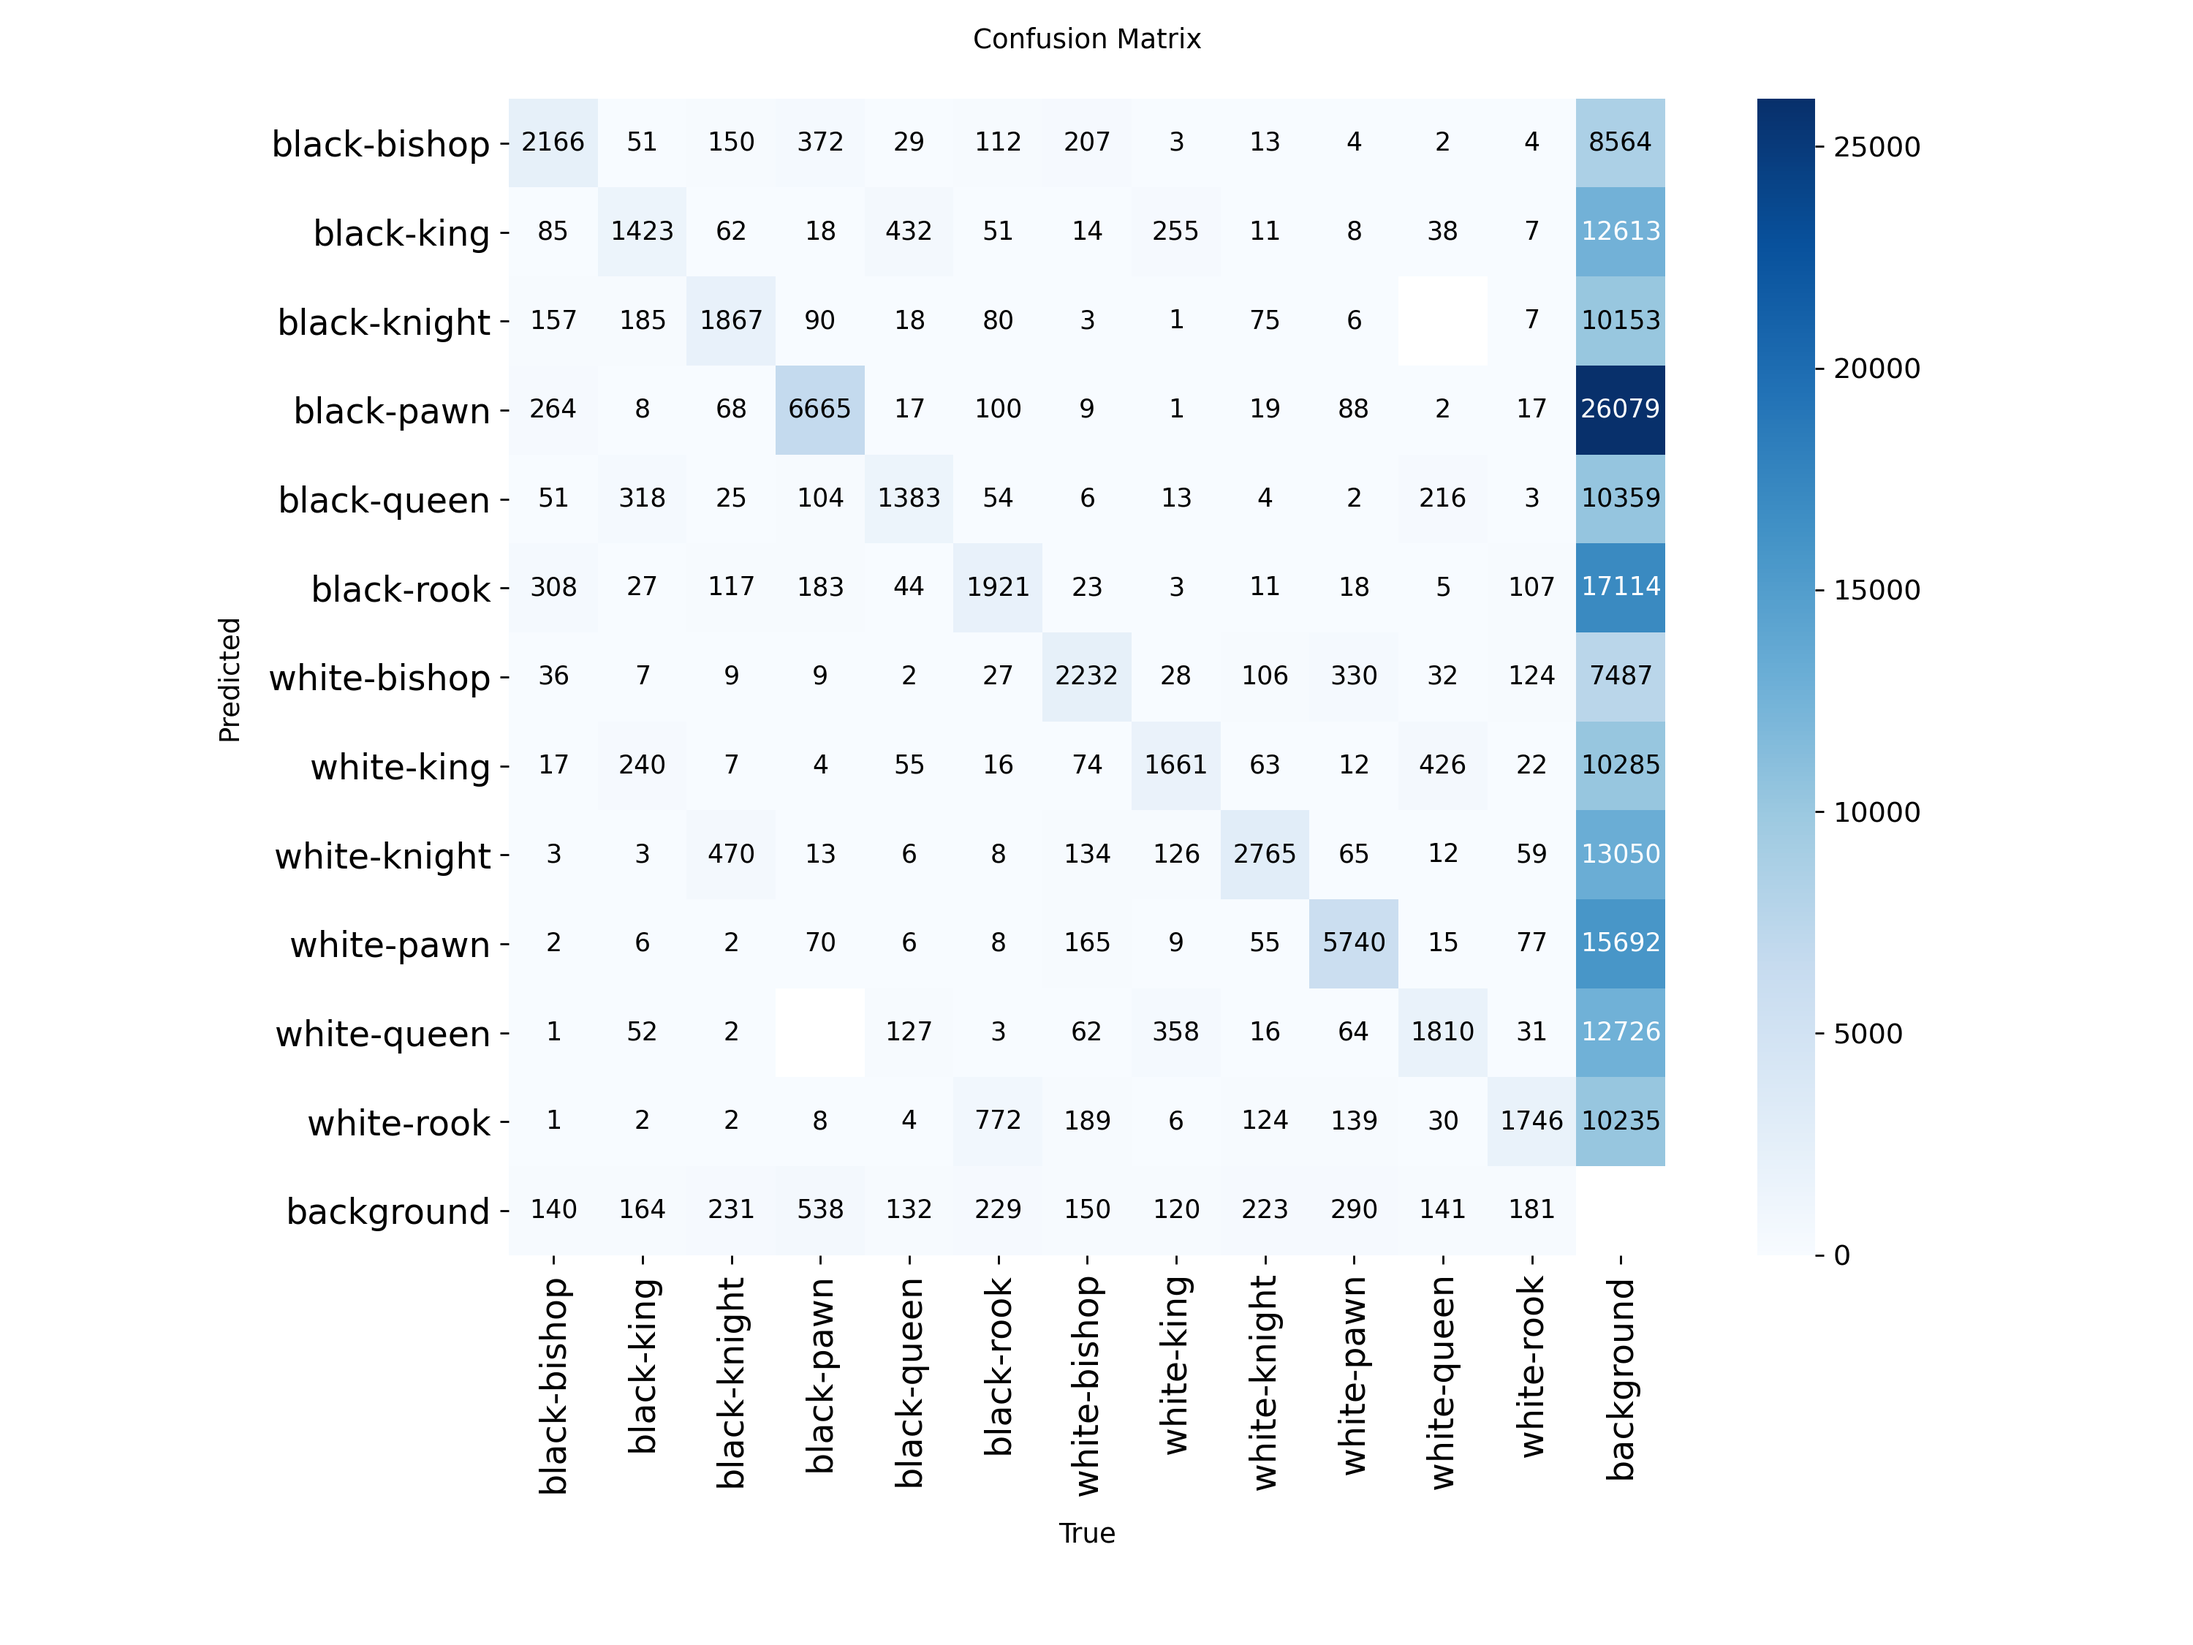
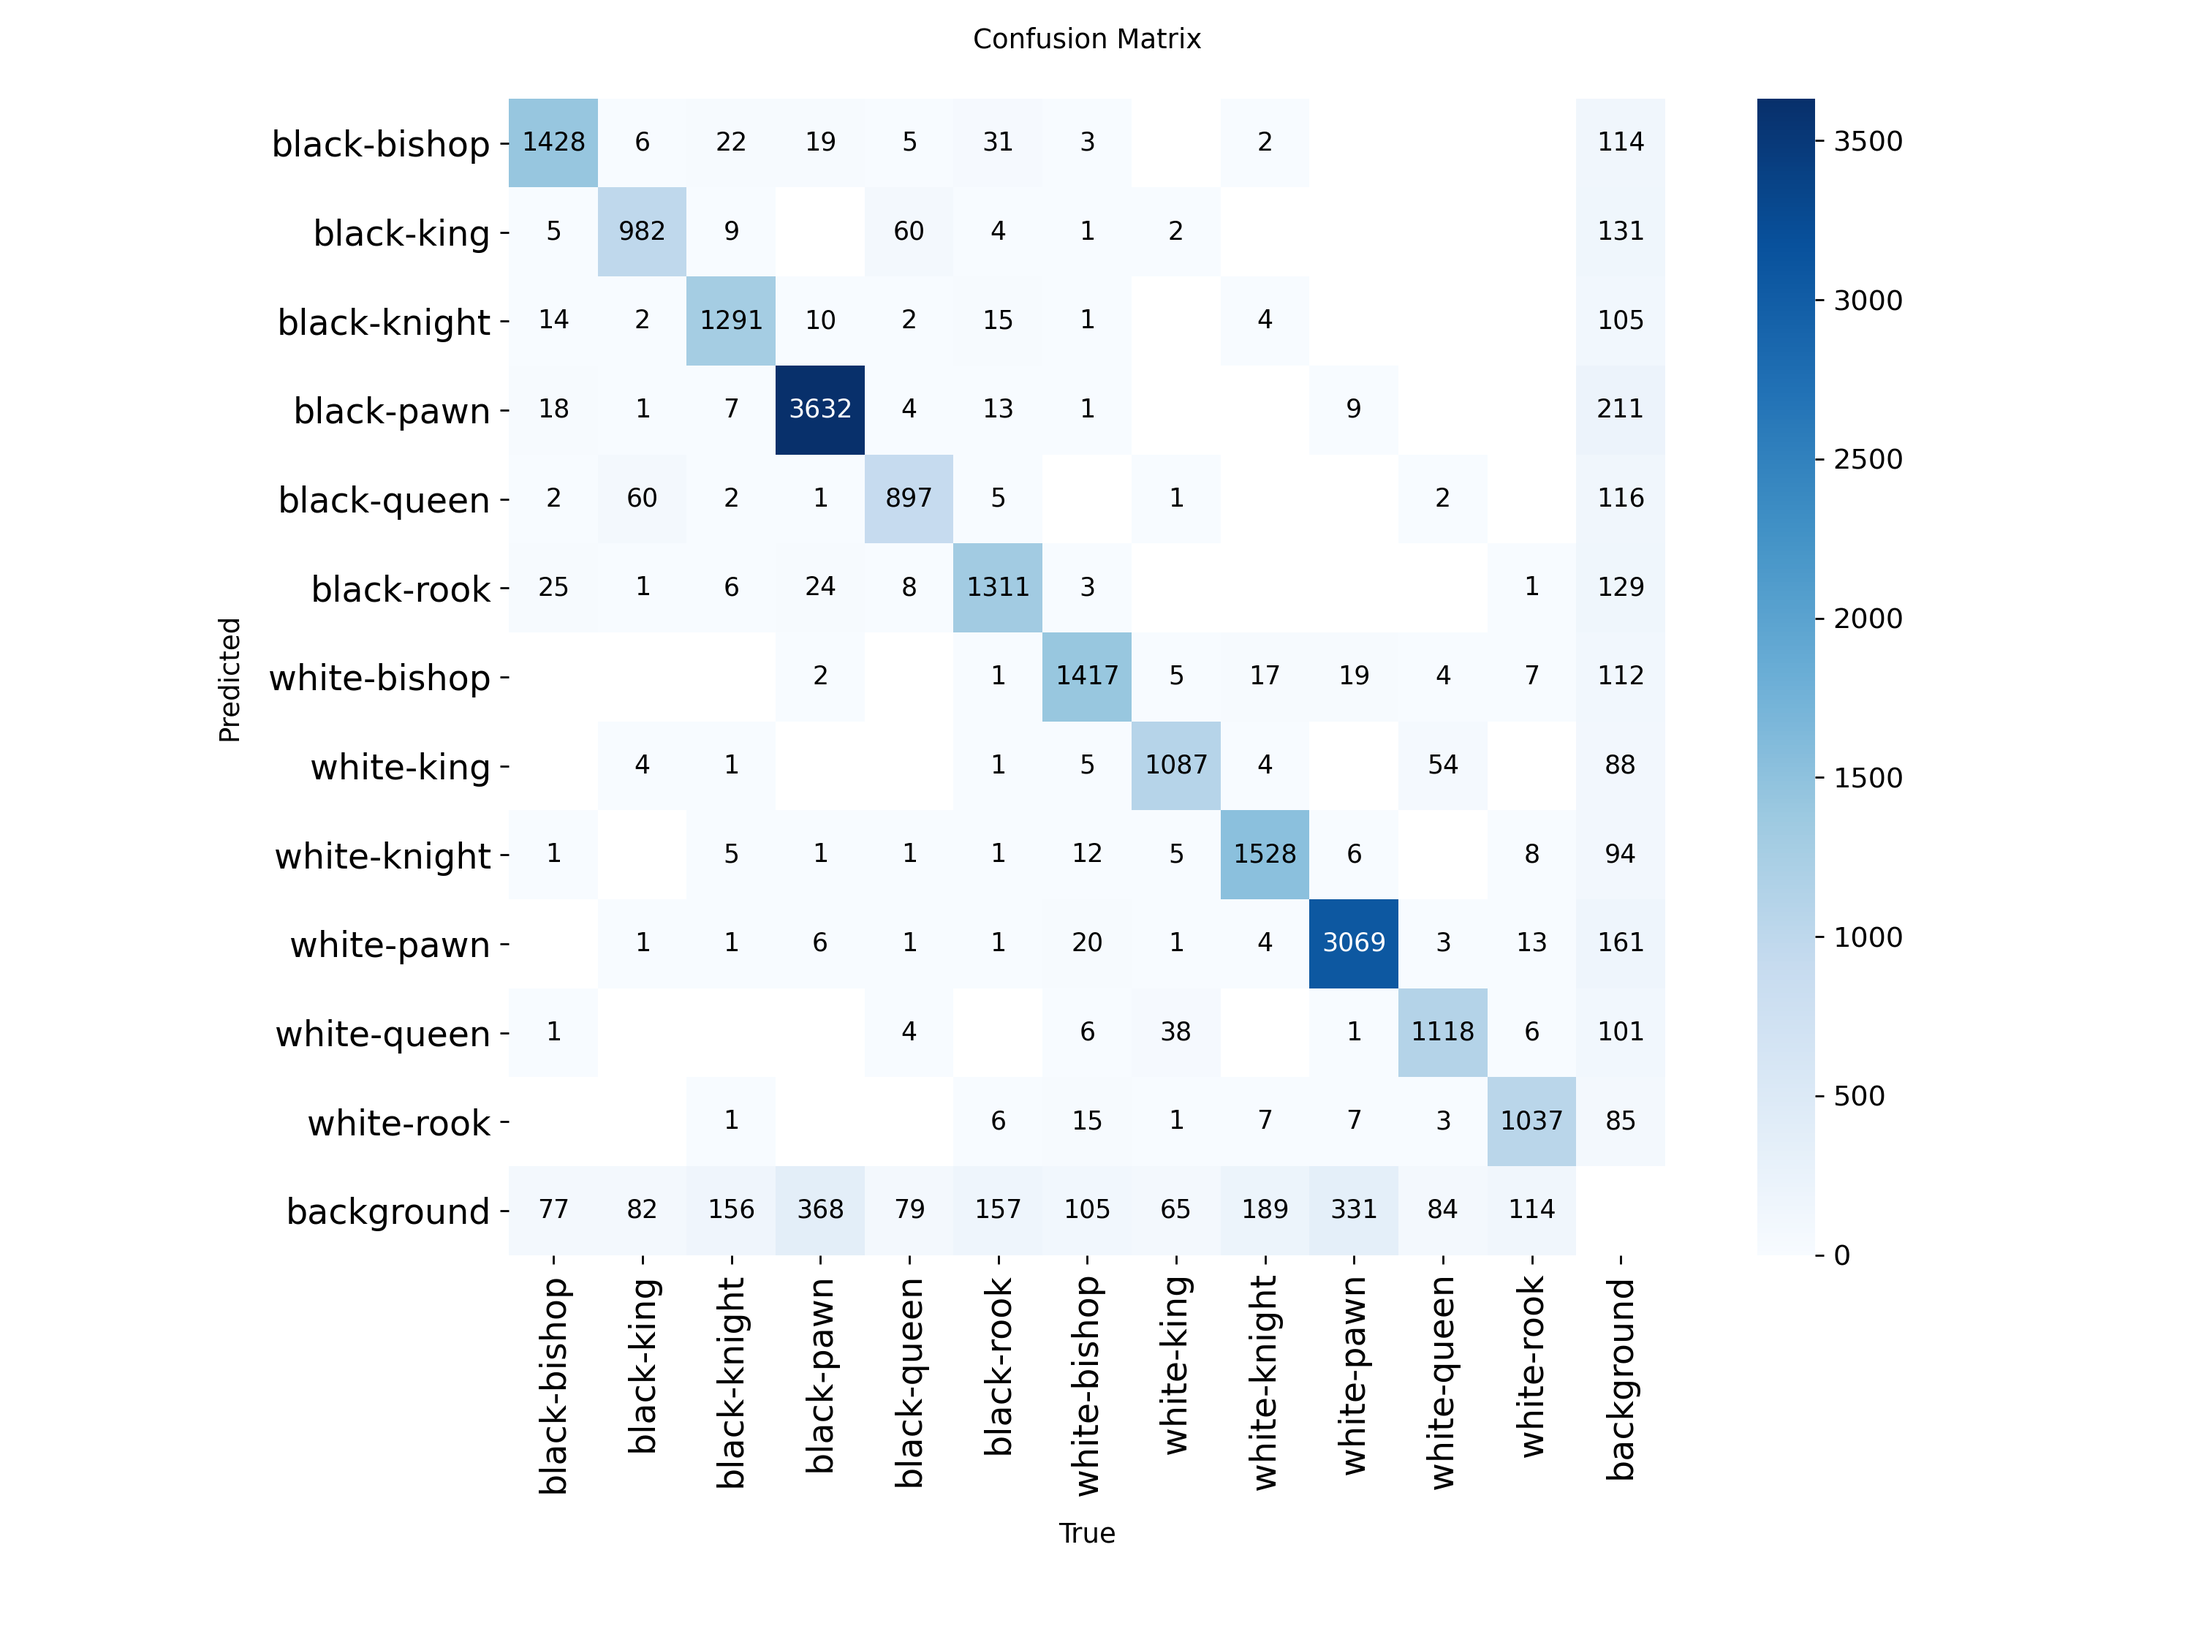
README update for computer vision projects

diff --git a/Computer Vision/Object_Detection/README.md b/Computer Vision/Object_Detection/README.md
@@ -1,6 +1,85 @@
-Dataset: https://universe.roboflow.com/caesar-ylvsf/sp2-ym1iq-5qvbo
+# Chess Piece Object Detection
 
-onnx    - Desktop, Server, Windows, Linux, Web, C++
-tflite  - Android, Raspberry Pi, Embedded, Device, IoT
-ncnn    - Android
-coreml  - iPhone, iPad, MacBook, Vision Pro, Apple Watch
+Detects and classifies chess pieces on a board — 12 classes (black/white ×
+king, queen, bishop, knight, rook, pawn).
+
+## Context
+Built as part of ITC's AI & Machine Learning division work.
+
+## Dataset
+[Chess piece dataset — Roboflow Universe](https://universe.roboflow.com/caesar-ylvsf/sp2-ym1iq-5qvbo)
+- 6,863 training images
+- 1,964 validation images
+- 982 test images
+
+## Approach
+- **Model**: YOLO26n (detection), input size 640×640 — raised from the
+  320px used in the waste classification project, since chess pieces
+  (especially pawns) are small objects that need more resolution to detect
+- **Training**: up to 50 epochs (early stopping patience=8), batch size 32,
+  AdamW optimizer, cosine LR schedule (lr0=0.001), weight decay 0.0006
+- This configuration was selected after comparing dataset versions; two
+  earlier dataset attempts were discarded due to poor camera angle/lighting
+  or incomplete piece labeling
+
+## Results
+Test set (982 images, 21,326 instances):
+
+| Metric    | Score  |
+|-----------|-------:|
+| Precision | 94.2%  |
+| Recall    | 87.8%  |
+| mAP50     | 91.3%  |
+| mAP50-95  | 66.0%  |
+
+Per-class breakdown:
+
+| Class         | Precision | Recall | mAP50 | mAP50-95 |
+|---------------|----------:|-------:|------:|---------:|
+| Black bishop  | 94.1%     | 91.2%  | 93.3% | 63.8%    |
+| Black king    | 91.3%     | 87.6%  | 91.4% | 70.0%    |
+| Black knight  | 93.8%     | 85.2%  | 89.0% | 63.3%    |
+| Black pawn    | 96.0%     | 88.3%  | 92.5% | 63.0%    |
+| Black queen   | 92.2%     | 84.1%  | 90.2% | 69.5%    |
+| Black rook    | 93.0%     | 84.8%  | 88.2% | 65.0%    |
+| White bishop  | 95.5%     | 90.2%  | 93.0% | 64.9%    |
+| White king    | 93.3%     | 90.7%  | 94.2% | 72.2%    |
+| White knight  | 96.3%     | 87.0%  | 90.4% | 64.6%    |
+| White pawn    | 96.2%     | 88.2%  | 91.9% | 61.6%    |
+| White queen   | 94.4%     | 88.4%  | 92.9% | 70.6%    |
+| White rook    | 94.4%     | 87.3%  | 88.7% | 64.0%    |
+
+Black-side pieces (particularly queen, knight, rook) show slightly lower
+recall than their white counterparts — possibly a lighting/contrast effect,
+since darker piece material reflects light differently.
+
+Full confusion matrices: [`confusion_matrix.png`](./result/confusion_matrix.png),
+[`confusion_matrix_normalized.png`](./result/confusion_matrix_normalized.png)
+
+Confusion matrices are from this same test evaluation (982 images, 21,326 instances) - background
+row/column counts are in the same order of magnitude as the class counts here
+(unlike a training-time validation confusion matrix, where background counts
+can look inflated due to how YOLO scores anchor-level background at a
+different granularity).
+
+## Limitations
+- Piece classes with similar silhouettes (king/queen, bishop/rook) are more
+  often confused, particularly among the black pieces
+- Trained only on classic-style piece sets which likely to perform worse on
+  fantasy/unusual/non-standard piece designs
+- Lighting and material sensitivity: pieces are partly distinguished by how
+  light reflects off their surface, so different lighting conditions can
+  affect detection even for the same piece type
+- Testing wasn't extensive due to time constraints; the final dataset was
+  chosen based on a qualitative comparison against a clearly worse earlier
+  version (bad angles/lighting, incomplete labeling), not a systematic
+  per-image label audit
+- Two earlier dataset and run attempts weren't kept or logged, only the final
+  configuration is documented here
+
+## Exported formats
+Model exported for deployment across platforms:
+- `onnx` — desktop, server, web, C++
+- `tflite` — Android, Raspberry Pi, embedded/IoT
+- `ncnn` — Android
+- `coreml` — iOS, macOS, Vision Pro, Apple Watch

diff --git a/Computer Vision/Segmentation/README.md b/Computer Vision/Segmentation/README.md
@@ -1,6 +1,67 @@
-Dataset: https://universe.roboflow.com/caesar-ylvsf/hair-2pjwo-ng8p4
+# Hair Segmentation
 
-onnx    - Desktop, Server, Windows, Linux, Web, C++
-tflite  - Android, Raspberry Pi, Embedded, Device, IoT
-ncnn    - Android
-coreml  - iPhone, iPad, MacBook, Vision Pro, Apple Watch
+Pixel-level segmentation of hair regions in images (binary: hair vs. background).
+
+## Context
+Built as part of ITC's AI & Machine Learning division work. This project was
+a given competitive assignment — the dataset was provided, and division
+members compared results on the same data rather than each sourcing their own.
+
+## Dataset
+[Hair segmentation dataset — Roboflow Universe](https://universe.roboflow.com/caesar-ylvsf/hair-2pjwo-ng8p4)
+- ~1,894 training images
+- ~796 validation images (after excluding a small number of corrupt/malformed label files that Ultralytics flagged automatically)
+- 479 images
+
+## Approach
+- **Model**: YOLO26n-seg (Ultralytics), input size 640×640
+- **Training**: 50 epochs, batch size 32, AdamW optimizer, cosine LR schedule
+  (lr0=0.001), weight decay 0.0006
+- **Segmentation-specific settings**: `mask_ratio=2` (raised from the default
+  4, for finer mask precision on a detailed object like hair) and
+  `retina_masks=True` (smoother mask output)
+- Hit the best result on the first full run; later attempts adjusting
+  hyperparameters didn't improve overall performance — they traded precision
+  for recall (or vice versa) rather than raising both
+
+## Results
+Test set (479 images, 550 instances):
+
+| Metric    | Box   | Mask  |
+|-----------|------:|------:|
+| Precision | 96.9% | 96.9% |
+| Recall    | 90.7% | 90.9% |
+| mAP50     | 96.2% | 95.5% |
+| mAP50-95  | 84.7% | 75.6% |
+
+Full confusion matrices: [`confusion_matrix.png`](./result/confusion_matrix.png),
+[`confusion_matrix_normalized.png`](./result/confusion_matrix_normalized.png)
+
+For reference, training-time validation (796 images, 900 instances) scored
+close to these numbers (Box P 95.2%/R 92.9%, Mask P 93.6%/R 93.7%), and the
+confusion matrix from that validation run showed ~95% recall on the hair
+class with 92 background regions misclassified as hair which is consistent with
+the background-bleed limitation below.
+
+## Limitations
+- **Lighting sensitivity**: insufficient or low lighting causes detection to
+  become unstable, the model can flicker on and off across frames/nearby
+  images under the same conditions
+- **Background bleed**: when the background is a similar shade to the
+  subject's hair and appears visually connected in-frame, the model tends to
+  extend the hair mask into the background rather than separating them
+- Only one full training configuration was properly explored; hyperparameter
+  adjustments after the first run traded metrics against each other (e.g.
+  precision up, recall down) rather than improving both, suggesting this
+  configuration may be close to the ceiling for this model/dataset without a
+  different approach (e.g. more data, augmentation targeting lighting variance)
+- A small number of training/validation labels were corrupted (mixed
+  segmentation and detection format) and were automatically excluded rather
+  than manually reviewed and fixed
+
+## Exported formats
+Model exported for deployment across platforms:
+- `onnx` — desktop, server, web, C++
+- `tflite` — Android, Raspberry Pi, embedded/IoT
+- `ncnn` — Android
+- `coreml` — iOS, macOS, Vision Pro, Apple Watch

diff --git a/Computer Vision/Classification/README.md b/Computer Vision/Classification/README.md
@@ -1,6 +1,56 @@
-Dataset: https://universe.roboflow.com/caesar-ylvsf/waste-classifier-backup-pjrq3
+# Waste Material Classification
 
-onnx    - Desktop, Server, Windows, Linux, Web, C++
-tflite  - Android, Raspberry Pi, Embedded, Device, IoT
-ncnn    - Android
-coreml  - iPhone, iPad, MacBook, Vision Pro, Apple Watch
+Image classification model that sorts waste into 6 categories: biodegradable,
+cardboard, glass, metal, paper, and plastic.
+
+## Context
+Built as part of ITC's AI & Machine Learning division work.
+
+## Dataset
+[Waste Classifier — Roboflow Universe](https://universe.roboflow.com/caesar-ylvsf/waste-classifier-backup-pjrq3)
+- 8,650 training images
+- 2,481 validation images
+- 1,219 test images
+
+## Approach
+- **Model**: YOLO26n-cls (Ultralytics)
+- **Input size**: 320×320
+- **Training**: 50 epochs, batch size 32, AdamW optimizer, cosine LR schedule
+  (lr0=0.001), early stopping (patience=8)
+- **Regularization**: label smoothing (0.2), dropout (0.15), weight decay (0.0006)
+  — used to reduce overfitting on a moderately sized dataset
+- This configuration was selected after comparing multiple data sources and
+  hyperparameter settings; the results below reflect the best-performing run
+
+## Results
+Test set Top-1 accuracy: **94.18%**
+
+| Class         | Recall |
+|---------------|-------:|
+| Biodegradable | 97.5%  |
+| Glass         | 95.1%  |
+| Cardboard     | 94.7%  |
+| Metal         | 93.5%  |
+| Paper         | 93.2%  |
+| Plastic       | 90.5%  |
+
+Full confusion matrices: [`confusion_matrix.png`](./result/confusion_matrix.png),
+[`confusion_matrix_normalized.png`](./result/confusion_matrix_normalized.png)
+
+## Limitations
+- Plastic is the weakest class, most often confused with paper and glass
+  likely due to visual similarity in some material textures/lighting in the
+  dataset.
+- Labels weren't verified image-by-image. An earlier candidate dataset was
+  discarded after spot checks revealed inconsistent/incorrect labeling; the
+  dataset used here was judged reliable based on that comparison and the
+  gap in resulting performance.
+- Earlier experiment runs (different sources/hyperparameters) weren't kept
+  or logged and only the final configuration is documented here.
+
+## Exported formats
+Model exported for deployment across platforms:
+- `onnx` — desktop, server, web, C++
+- `tflite` — Android, Raspberry Pi, embedded/IoT
+- `ncnn` — Android
+- `coreml` — iOS, macOS, Vision Pro, Apple Watch
